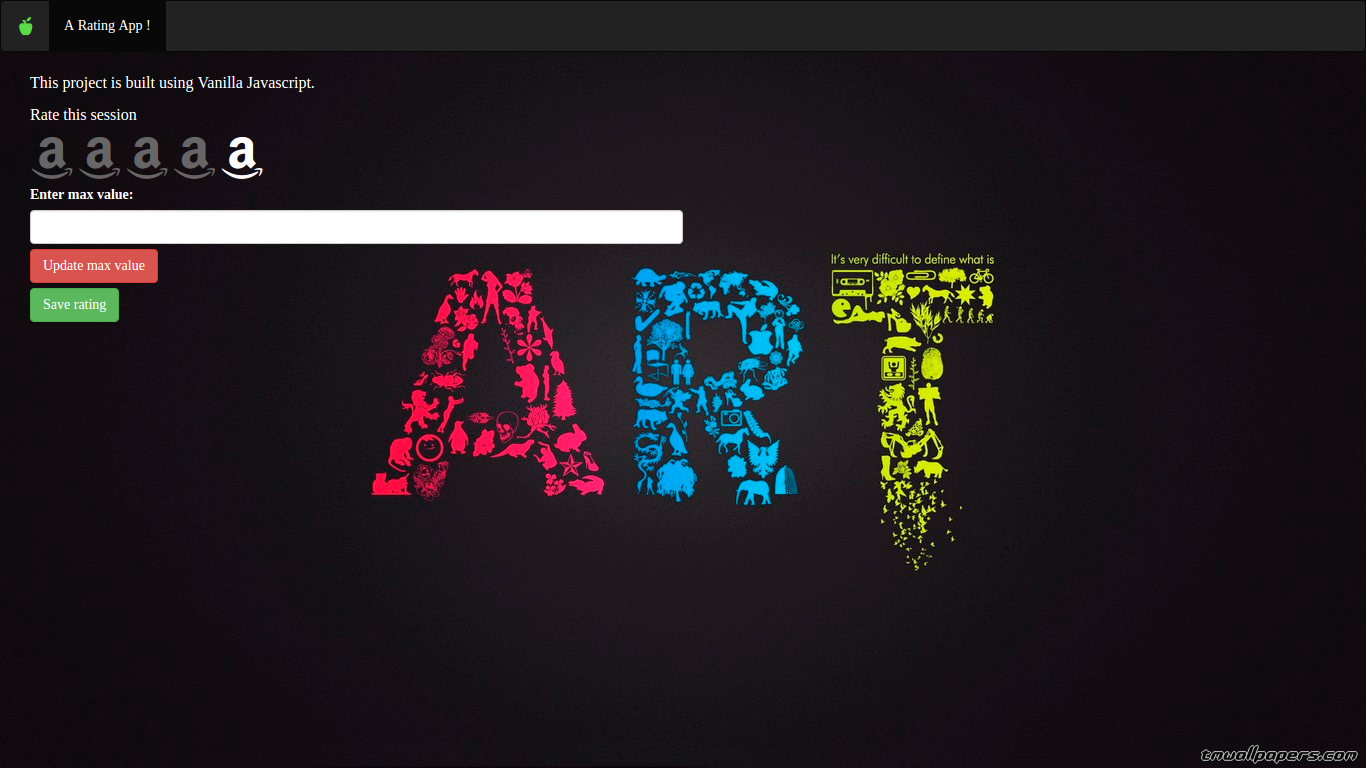
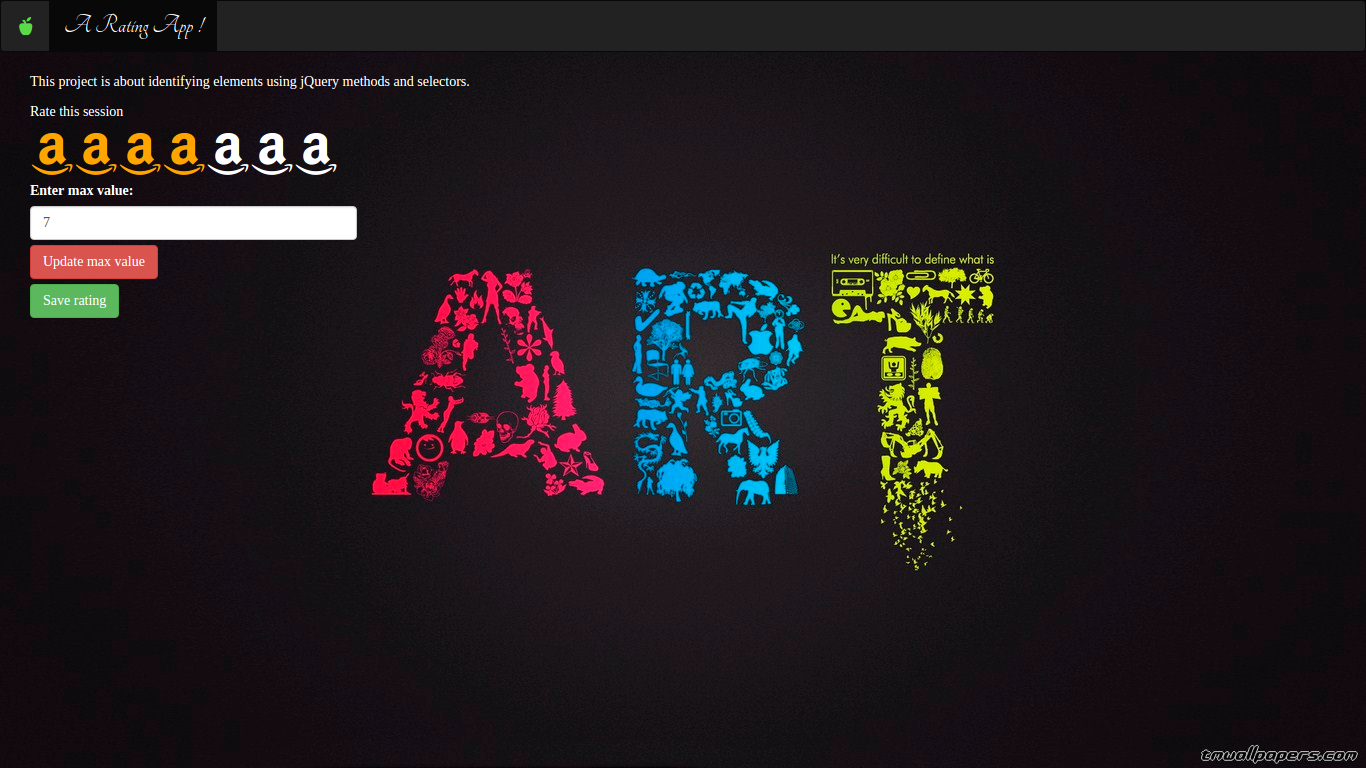
#final update git add --all

Changed region(s): [[0.0, 0.0, 0.5227, 0.4375]]

diff --git a/Rating_System.html b/Rating_System.html
@@ -61,7 +61,7 @@
 
       
     <div class="col-lg-12 col-md-12 col-sm-12 col-xs-12">
-        <div class="col-lg-6 col-md-4 col-sm-4 col-xs-4 padding_o margin-top">
+        <div class="col-lg-3 col-md-4 col-sm-4 col-xs-4 padding_o margin-top">
              <label for="max-value" style="color:white;">Enter max value:</label>
              <input type="text" id="max-value" class="form-control" />
         </div>

diff --git a/css/style.css b/css/style.css
@@ -15,7 +15,7 @@
   }
 
   .rating-chosen {
-   color: #666666;
+   color: orange;
   }
 
   .padding_o
